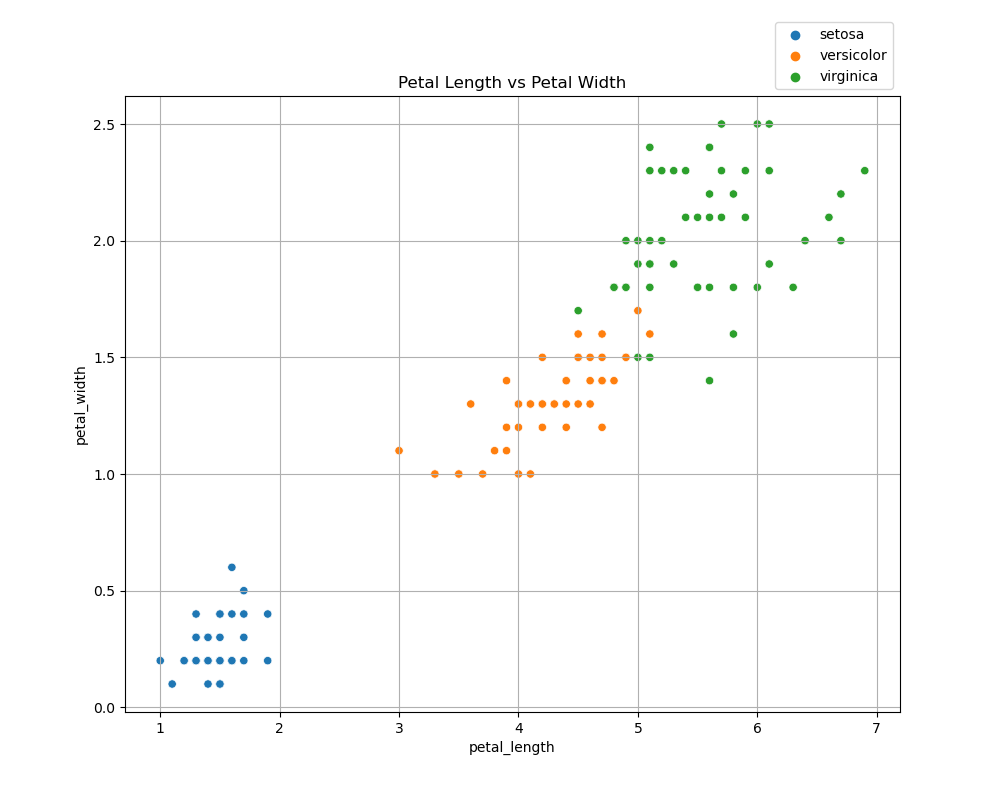
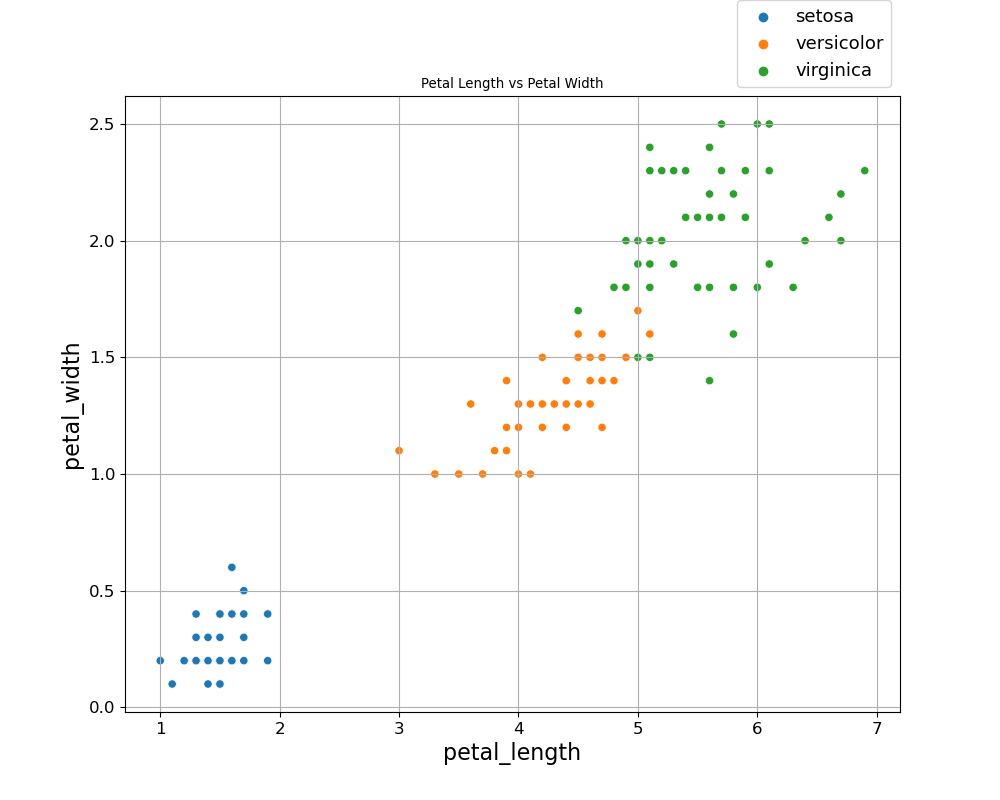
Project Final Commit

diff --git a/analysis.py b/analysis.py
@@ -4,6 +4,7 @@ import pandas as pd #Import library to allow read in data and manipulation of da
 import seaborn as sns  #Used for analysis of data and graphical representations
 import matplotlib.pyplot as plt #Used for graphs
 import numpy as np #Used for calculations of data
+import statistics # calculating statistics of numeric data
 import csv #file type
 
 dataRead = pd.read_csv(r"C:\Users/Catriona Murray/Documents/pands-project/iris_dataset.csv") # Read in csv file using pandas library functions
@@ -54,137 +55,221 @@ writer.writerow(["Sepal Length",totalSepL,meanSepL,stdSepL,maxSepL,minSepL,q1Sep
 writer.writerow(["Sepal Width",totalSepW,meanSepW,stdSepW,maxSepW,minSepW,q1SepalWdth,medianSepW,q3SepalWdth,iqrSepalWdth]) # write to iris_summary.csv with calculations of sepal width
 writer.writerow(["Petal Length",totalPetL,meanPetL,stdPetL,maxPetL,minPetL,q1PetalLgth,medianPetL,q3PetalLgth,iqrPetalLgth])# write to iris_summary.csv with calculations of petal length
 writer.writerow(["Petal Width",totalPetW,meanPetW,stdPetW,maxPetW,minPetW,q1PetalWdth,medianPetW ,q3PetalWdth,iqrPetalWdth]) # write to iris_summary.csv with calculations of petal width
-# File that is beint written to iris_summary.csv must not be open at the same time as running the script as it will fail with permission errors
+# File that is being written to iris_summary.csv must not be open at the same time as running the script as it will fail with permission errors
 
-
-print ("\033[2;37;40m Sepal Length: \033[0;37;40m") # Output heading so that its underlined
-print ("Sepal Length Standard Deviation: "+str(stdSepL)) # Print out Standard Deviation and all other calculations for each characteristics
-print ("Total Sepal Length: "+str(totalSepL))  
-print ("Mean Sepal Length: "+str(meanSepL))
-print ("Sepal Length Standard Deviation: "+str(stdSepL))
-print ("Max Sepal Length: "+str(maxSepL))
-print ("Min Sepal Length: "+str(minSepL))
-print ("First Quartile Sepal Length: "+str(q1SepalLgth))
-print ("Median Sepal Length: "+str(medianSepL))
-print ("Third Quartile Sepal Length: "+str(q3SepalLgth))
-print ("IQR Sepal Length: "+str(iqrSepalLgth)+"\n")
-
-print ("\033[2;37;40m Sepal Width:\033[0;37;40m")
-print ("Sepal Width Standard Deviation: "+str(stdSepW))
-print ("Total Sepal Width: "+str(totalSepW))
-print ("Mean Sepal Width: "+str(meanSepW))
-print ("Sepal Width Standard Deviation: "+str(stdSepW))
-print ("Max Sepal Width: "+str(maxSepW))
-print ("Min Sepal Length: "+str(minSepW))
-print ("First Quartile Sepal Length: "+str(q1SepalWdth))
-print ("Median Sepal Width: "+str(medianSepW))
-print ("Third Quartile Sepal Length: "+str(q3SepalWdth))
-print ("IQR Sepal Length: "+str(iqrSepalLgth)+"\n")
-
-print ("\033[2;37;40m Petal Length: \033[0;37;40m")
-print ("Petal Length Standard Deviation: "+str(stdPetL))
-print ("Total Petal Length: "+str(totalPetL))
-print ("Mean Petal Length: "+str(meanPetL))
-print ("Petal Length Standard Deviation: "+str(stdPetL))
-print ("Max Petal Length: "+str(maxPetL))
-print ("Min Petal Length: "+str(minPetL))
-print ("First Quartile Petal Length: "+str(q1PetalLgth))
-print ("Median Petal Length: "+str(medianPetL))
-print ("Third Quartile Petal Length: "+str(q3PetalLgth))
-print ("IQR Petal Length: "+str(iqrPetalLgth)+"\n")
-
-print ("\033[2;37;40m Petal Width: \033[0;37;40m")
-print ("Petal Width Standard Deviation: "+str(stdPetW))
-print ("Total Petal Width: "+str(totalPetW))
-print ("Mean Petal Width: "+str(meanPetW))
-print ("Petal Width Standard Deviation: "+str(stdPetW))
-print ("Max Petal Width: "+str(maxPetW))
-print ("Min Petal Width: "+str(minPetW))
-print ("First Quartile Petal Width: "+str(q1PetalWdth))
-print ("Median Petal Width: "+str(medianPetW))
-print ("Third Quartile Petal Length: "+str(q3PetalLgth))
-print ("IQR Petal Width: "+str(iqrPetalWdth)+"\n")
-
+#Ordinary Histogram of sepal length, sepal width, petal length a petal widh
 plt.figure(figsize = (10, 7)) # Using mathplot lib library functions setting the size of figure  
 x = df["sepal_length"] # Setting the x axis to the sepal length read in from data sets and using the columns that were labelled previously which are used to extract that specific variable data
-plt.hist(x, bins = 20, color = "green") # setting the figure to be a histogram which is based on the x varialble , bins corresponds to number of bars, Color assigns the color for that histogram
+plt.hist(x, bins = 20, color = "tomato") # setting the figure to be a histogram which is based on the x varialble , bins corresponds to number of bars, Color assigns the color for that histogram
 plt.title("Sepal Length in cm")  # set the title of the graph
 plt.xlabel("Sepal_Length_cm") # set the x axis label
 plt.ylabel("Count") # set the axis label
 plt.savefig('histSepalLength.png') # Save the graph generated as a png file  in current directory
-plt.grid(True) # put in grid
 plt.show() # Output the graphs to the screen
 
 plt.figure(figsize = (10, 7))
 x = df["sepal_width"]
-plt.hist(x, bins = 20, color = "red")
+plt.hist(x, bins = 20, color = "mediumseagreen")
 plt.title("Sepal Width in cm")
 plt.xlabel("Sepal_Width_cm")
 plt.ylabel("Count")
 plt.savefig('histSepalWidth.png')
-plt.grid(True)
 plt.show()
 
 
 plt.figure(figsize = (10, 7))
 x = df["petal_length"]
-plt.hist(x, bins = 20, color = "blue")
+plt.hist(x, bins = 20, color = "royalblue")
 plt.title("Petal Length in cm")
 plt.xlabel("Petal_Length_cm")
 plt.ylabel("Count")
-plt.grid(True)
 plt.savefig('histPetalLength.png')
 plt.show();
 
 plt.figure(figsize = (10, 7))
 x = df["petal_width"]
-plt.hist(x, bins = 20, color = "orange")
+plt.hist(x, bins = 20, color = "violet")
 plt.title("Petal Width in cm")
 plt.xlabel("Petal_Width_cm")
 plt.ylabel("Count")
-plt.grid(True)
 plt.savefig('histPetalWidth.png')
 plt.show();
 
-sns.FacetGrid(dataRead, hue="Species", size=5) \
-.map(sns.distplot, "petal_length") \
-.add_legend();
-plt.title("Histogram of petal_length")
-plt.ylabel("Probability Density of petal_length")
-plt.savefig('ProbabilityDensityofpetal_length.png')
-plt.show(); # Used to have histogram and densities in the same plot
+#######################################Stacked Histogram ############################################
+colors = ['tomato', 'mediumseagreen', 'royalblue'] #Set colour of graph
 
-sns.FacetGrid(dataRead, hue="Species", size=5) \
-.map(sns.distplot, "petal_width") \
-.add_legend();
-plt.title("Histogram of petal_width")
-plt.ylabel("Probability Density of petal_width")
-plt.savefig('ProbabilityDensityofpetal_width.png')
-plt.show();
+params = {'legend.fontsize': 13 # Set font size and font type
+          , 'font.size': 8
+          , 'font.serif': ['Computer Modern Roman']
+          , 'axes.labelsize': 16
+          , 'xtick.labelsize': 12
+          , 'ytick.labelsize': 12
+         }
+plt.rcParams.update(params) # call parameters function
+iris_setosa = dataRead[df['Species'] == 'setosa'] # set variable as setosa species
+iris_virginica = dataRead[df['Species'] == 'virginica'] # set variable as virginica species
+iris_versicolor = dataRead[df['Species'] == 'versicolor'] # set variable as versicolor species
 
-sns.FacetGrid(dataRead, hue="Species", size=5) \
-.map(sns.distplot, "sepal_length") \
-.add_legend();
-plt.title("Histogram of sepal_length")
-plt.ylabel("Probability Density of sepal_length")
-plt.savefig('ProbabilityDensityofsepal_length.png')
-plt.show();
+#species
+names = ['iris_setosa', 'iris_virginica', 'iris_versicolor']
+plt.hist([iris_setosa["sepal_length"], iris_virginica["sepal_length"], # plot graph for sepal length 
+          iris_versicolor["sepal_length"]],
+          stacked=True, color = colors, label=names,alpha=0.5)  # Create a stacked Histogram to show the Sepal Lemgth of each species
 
-sns.FacetGrid(dataRead, hue="Species", size=5) \
-.map(sns.distplot, "sepal_width") \
-.add_legend();
-plt.title("Histogram of sepal_width")
-plt.ylabel("Probability Density of sepal_width")
-plt.savefig('ProbabilityDensityofsepal_width.png')
-plt.show();
+# Plot formatting
+plt.legend()
+plt.title("Stacked histograms for sepal length",fontsize=15)
+plt.xlabel('Sepal length in cm')
+plt.ylabel('Frequency')
+plt.tight_layout()
+plt.savefig('stackedHistSepalLength.png')
+plt.show()
 
+
+plt.hist([iris_setosa["sepal_width"], iris_virginica["sepal_width"], 
+          iris_versicolor["sepal_width"]],
+          stacked=True, color = colors, label=names,alpha=0.5)
+plt.legend() 
+plt.title("Stacked histograms for sepal width",fontsize=15)
+plt.xlabel('Sepal width in cm')
+plt.ylabel('Frequency')
+plt.tight_layout()
+plt.savefig('stackedHistSepalWidth.png')
+plt.show()
+
+plt.hist([iris_setosa["petal_length"], iris_virginica["petal_length"], 
+          iris_versicolor["petal_length"]],
+          stacked=True, color = colors, label=names,alpha=0.5)
+plt.legend() 
+plt.title("Stacked histograms for Petal Length",fontsize=15)
+plt.xlabel('Petal length in cm')
+plt.ylabel('Frequency')
+plt.tight_layout()
+plt.savefig('stackedHistPetalLength.png')
+plt.show()
+
+plt.hist([iris_setosa["petal_width"], iris_virginica["petal_width"], 
+          iris_versicolor["petal_width"]],
+          stacked=True, color = colors, label=names,alpha=0.5) 
+plt.legend() 
+plt.title("Stacked histograms for Petal width",fontsize=15)
+plt.xlabel('Petal width in cm')
+plt.ylabel('Frequency')
+plt.tight_layout()
+plt.savefig('stackedHistPetalWidth.png')
+plt.show()
+
+#####################################Histogram by species##########################################
+fig, (ax1, ax2, ax3) = plt.subplots(1,3,figsize=(15,5)) #Plot graph with 3 axes 
+
+ax1.hist(iris_setosa["sepal_length"], 
+          color = 'red', label=names, histtype = 'step') # First axis is Setosa sepal length, histograph should go up in steps
+
+ax2.hist(iris_virginica["sepal_length"] ,          
+          color = 'green', label=names,histtype = 'step') 
+
+ax3.hist(iris_versicolor["sepal_length"],
+          color = 'blue', label=names,histtype = 'step') 
+
+
+ax1.set_title("Iris setosa sepal length",fontsize=18)
+ax2.set_title("Iris virginica sepal length",fontsize=18)
+ax3.set_title("Iris versicolor sepal length",fontsize=18)
+
+# Set common labels
+fig.text(0.0, 0.5,  'Frequency',  ha='center', va='center', rotation='vertical')
+fig.text(0.5, 0.0, 'Sepal lenghts', ha='center', va='center', rotation='horizontal')
+plt.tight_layout()
+plt.savefig('histSepL.png')
+
+plt.show()
+
+####
+
+fig, (ax1, ax2, ax3) = plt.subplots(1,3,figsize=(15,5))
+
+ax1.hist(iris_setosa["sepal_width"], 
+          color = 'red', label=names, histtype = 'step') 
+
+ax2.hist(iris_virginica["sepal_width"] ,          
+          color = 'green', label=names,histtype = 'step') 
+
+ax3.hist(iris_versicolor["sepal_width"],
+          color = 'blue', label=names,histtype = 'step') 
+
+
+ax1.set_title("Iris setosa sepal width",fontsize=18)
+ax2.set_title("Iris virginica sepal width",fontsize=18)
+ax3.set_title("Iris versicolor sepal width",fontsize=18)
+
+# Set common labels
+fig.text(0.0, 0.5,  'Frequency',  ha='center', va='center', rotation='vertical')
+fig.text(0.5, 0.0, 'Sepal Height', ha='center', va='center', rotation='horizontal')
+
+plt.tight_layout()
+plt.savefig('histSepW.png')
+
+plt.show()
+
+#####
+fig, (ax1, ax2, ax3) = plt.subplots(1,3,figsize=(15,5))
+
+ax1.hist(iris_setosa["petal_length"], 
+          color = 'red', label=names, histtype = 'step') 
+
+ax2.hist(iris_virginica["petal_length"] ,          
+          color = 'green', label=names,histtype = 'step') 
+
+ax3.hist(iris_versicolor["petal_length"],
+          color = 'blue', label=names,histtype = 'step') 
+
+
+ax1.set_title("Iris setosa petal length",fontsize=18)
+ax2.set_title("Iris virginica petal length",fontsize=18)
+ax3.set_title("Iris versicolor petal length",fontsize=18)
+
+# Set common labels
+fig.text(0.0, 0.5,  'Frequency',  ha='center', va='center', rotation='vertical')
+fig.text(0.5, 0.0, 'Sepal Height', ha='center', va='center', rotation='horizontal')
+
+plt.tight_layout()
+plt.savefig('histPetL.png')
+plt.show()
+
+#Petal Width by species
+fig, (ax1, ax2, ax3) = plt.subplots(1,3,figsize=(15,5))
+
+ax1.hist(iris_setosa["petal_width"], 
+          color = 'red', label=names, histtype = 'step') 
+
+ax2.hist(iris_virginica["petal_width"] ,          
+          color = 'green', label=names,histtype = 'step') 
+
+ax3.hist(iris_versicolor["petal_width"],
+          color = 'blue', label=names,histtype = 'step') 
+
+
+ax1.set_title("Iris setosa petal width",fontsize=18)
+ax2.set_title("Iris virginica petal width",fontsize=18)
+ax3.set_title("Iris versicolor petal width",fontsize=18)
+
+# Set common labels
+fig.text(0.0, 0.5,  'Frequency',  ha='center', va='center', rotation='vertical')
+fig.text(0.5, 0.0, 'Sepal Height', ha='center', va='center', rotation='horizontal')
+
+plt.tight_layout()
+plt.savefig('histPetW.png')
+plt.show()
+
+
+########################################Species count#################
 sns.countplot(x='Species', data=df,).set(title='Species Count') # Creates a histogram that shows the number of flowers per species 
 plt.show(); #Show the chart
 
-#scatterplots   
+#################################scatterplots########################################################### 
 
 sns.scatterplot(x='sepal_length', y='sepal_width',
-                hue='Species', data=df,).set(title='Sepal Length vs Sepal Width') # Create a scatter plot showing distribution of speal length and width of each species
+                hue='Species', data=df,).set(title='Sepal Length vs Sepal Width') # Create a scatter plot showing distribution of sepal length and width of each species
 #Set the tile of the graph to  Sepal Length vs Sepal Width, color is set based on the species
 # Placing Legend outside the Figure 
 plt.legend(bbox_to_anchor=(1, 1), loc=4) # Place legend on the graph, setting where the location is
